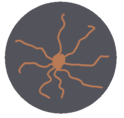
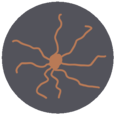
rotating and fix bugs

diff --git a/game.py b/game.py
@@ -1,3 +1,5 @@
+import time
+
 from classes import *
 import sys
 import random
@@ -5,7 +7,8 @@ import random
 
 WIDTH = 1920
 HEIGHT = 1080
-MUSIC_VOLUME = 0.1
+MUSIC_VOLUME = 0
+
 
 pygame.init()
 pygame.mixer.init()
@@ -128,30 +131,30 @@ def game():
     #создаём группу спрайтов
     allSpites = pygame.sprite.Group()
 
-    #создаём сетку размером 125 на 120 для размещения жил
-    setka = [0] * 8
-    for i in range(8):
-        setka[i] = [0] * 15
+    #создаём сетку размером 115 на 115 для размещения жил
+    setka_zhil = [0] * 9
+    for i in range(9):
+        setka_zhil[i] = [0] * 16
 
     #создаём сетку размером 10 на 10 для резмещения построек
-    setkap = [0] * 192
-    for i in range(192):
-        setkap[i] = [0] * 109
+    setkap = [0] * (192 * 2)
+    for i in range(192 * 2):
+        setkap[i] = [0] * (109 * 2)
 
     # размещение жил по сетке
     for i in range(0, 3):
         numbers = 0
         while True:
-            num1 = random.randint(1, 7)
-            num2 = random.randint(0, 14)
-            if setka[num1][num2] == 0:
-                zhila = Zhila(i + 1, (num2 * 120, num1 * 125))
-                setka[num1][num2] = zhila.get_id()
+            num1 = random.randint(1, 8)
+            num2 = random.randint(0, 15)
+            if setka_zhil[num1][num2] == 0:
+                zhila = Zhila(i + 1, (num2 * 115, num1 * 115))
+                setka_zhil[num1][num2] = zhila.get_id()
                 numbers += 1
                 allSpites.add(zhila)
-                for q in range(0, 120, 10):
-                    for g in range(0, 130, 10):
-                        setkap[(num2 * 125 + g) // 10][(num1 * 120 + q) // 10] = zhila.get_id()
+                for q in range(0, 115, 5):
+                    for g in range(0, 115, 5):
+                        setkap[(num2 * 115 + g) // 5][(num1 * 115 + q) // 5] = zhila.get_id()
             if numbers == 3:
                 break
 
@@ -165,19 +168,32 @@ def game():
         ikonka_rescurces = Ikonka_rescurces((WIDTH / 2 - 350 + i * 50, 70), 10, i + 20)
         ikonki.add(ikonka_rescurces)
     for i in range(5):
-        ikonka_postroek = Postroika((WIDTH / 2 - 200 + i * 100, HEIGHT - 70), 1, 10 + i)
+        ikonka_postroek = Postroika((WIDTH / 2 - 200 + i * 100, HEIGHT - 70), 1, 10 + i, 0)
         ikonki.add(ikonka_postroek)
         postroiki.add(ikonka_postroek)
     ikonka_name = Button(names_rescurces[0], (WIDTH / 2 - 630, 70))
 
     hud_up = Button(hud_up_img, (WIDTH / 2, HEIGHT / 2))
     hud_down = Button(hud_down_img, (WIDTH / 2, HEIGHT / 2))
+    group_setka = pygame.sprite.Group()
+    group_postroek = pygame.sprite.Group()
     # добовляем в группы спрайтов спрайты
     allSpites.add(hud_up, hud_down, ikonka_count_resources_001, ikonka_count_resources_010, ikonka_count_resources_100, ikonka_name)
     # создаём переменнаю для проверки привязанна ли расположение постройки к расположению мышки
     captured = False
+    for i in range(192 * 2):
+        for n in range(108 * 2):
+            group_setka.add(Block((i * 5, n * 5), setkap[i][n]))
+    timer = time.time()
     while True:
         screen.blit(fon_game_img, fon_game_img.get_rect())
+        if time.time() - timer > 5:
+            for i in group_setka:
+                i.kill()
+            for i in range(192 * 2):
+                for n in range(108 * 2):
+                    group_setka.add(Block((i * 5, n * 5), setkap[i][n]))
+            timer = time.time()
         #отображаем кол-во ресурсов для предмета на который мы навелись
         mouse_pos = pygame.mouse.get_pos()
         for i in ikonki:
@@ -188,46 +204,85 @@ def game():
                 ikonka_count_resources_100.set_img(numbers_image[i.update(1) // 100])
         #проверяем нажата ли какая нибудь кнопка
         for event in pygame.event.get():
+            if event.type == pygame.MOUSEBUTTONDOWN and pygame.mouse.get_pressed()[2] and captured:
+                selected_building.rotare()
+            if event.type == pygame.MOUSEBUTTONDOWN and pygame.mouse.get_pressed()[1]:
+                for i in group_postroek:
+                    if pygame.Rect.collidepoint(i.rect, mouse_pos):
+                        pos, size = i.update(4)
+                        new_id = i.update(5)
+
+                        # текущую ячеку помечаем что там чисто
+                        setkap[pos[0] // 5][pos[1] // 5] = 0
+                        for q in range(0, size[1], 5):
+                            for g in range(0, size[0], 5):
+                                # каждую явейку затрагиваемая обектом помечаем как свободную
+                                setkap[(pos[0] // 5 * 5 + g) // 5][(pos[1] // 5 * 5 + q) // 5] = new_id
+
+                        i.kill()
             #если пользователь нажал клавишу мышки
-            if event.type == pygame.MOUSEBUTTONDOWN:
+            if event.type == pygame.MOUSEBUTTONDOWN and pygame.mouse.get_pressed()[0]:
                 #создаём спрайт постройки исли пользователь выбрал одну из них
                 for i in postroiki:
                     if pygame.Rect.collidepoint(i.rect, mouse_pos):
-                        selected_building = Postroika(mouse_pos, 1, i.update(2))
+                        selected_building = Postroika(mouse_pos, 1, i.update(2), setkap[mouse_pos[0] // 5][mouse_pos[1] // 5])
                         captured = True
                         allSpites.add(selected_building)
+                        group_postroek.add(selected_building)
 
             #если клавиша мышки отпущена после нажатия и до этого была выбрана постройка для размещения
             #пытаемся разместить обекто по сетке
-            if event.type == pygame.MOUSEBUTTONUP and captured:
+            if event.type == pygame.MOUSEBUTTONUP and pygame.mouse.get_pressed()[0] == False and captured:
                 captured = False
                 #вычисляем размер поcтройки
-                sizey = (selected_building.rect.bottomleft[1] - selected_building.rect.y)
-                sizex = (selected_building.rect.topright[0] - selected_building.rect.x)
+                sizex, sizey = selected_building.get_size()
                 #проверяем ечейку которая соответстует укрсору мышки свободна или нет
-                if setkap[mouse_pos[0] // 10][mouse_pos[1] // 10] == 0:
-                    is_place_occupied = False
-                    for q in range(0, sizey, 10):
-                        for g in range(0, sizex, 10):
-                            numm1 = (mouse_pos[1] // 10 * 10 + q) // 10
-                            numm2 = (mouse_pos[0] // 10 * 10 + g) // 10
-                            if numm1 > 108 or numm2 > 191 or setkap[numm2][numm1] != 0:
+                # если ячека занята то is_place_occupied становится true
+                is_place_occupied = False
+                print(selected_building.get_id())
+                print(setkap[mouse_pos[0] // 5][mouse_pos[1] // 5])
+                if selected_building.get_id() == 11 and 0 < setkap[mouse_pos[0] // 5][mouse_pos[1] // 5] < 4:
+                    #создаём два цикла для проверки размера постройки в той ячейке которую она займёт
+                    for q in range(0, sizey, 5):
+                        for g in range(0, sizex, 5):
+                            #получаем кординаты ячейки постройки
+                            numm1 = (mouse_pos[1] // 5 * 5 + q) // 5
+                            numm2 = (mouse_pos[0] // 5 * 5 + g) // 5
+                            #проверяем пуста ли эта ячейка и если занята то selected_building.kill()
+                            if numm1 > 108 * 2 or numm2 > 191 * 2 or setkap[numm2][numm1] > 3 or setkap[numm2][numm1] < 1:
                                 is_place_occupied = True
                     if is_place_occupied:
                         selected_building.kill()
                     else:
                         #текущую ячеку помечаем что что-то там есть
-                        setkap[mouse_pos[0] // 10][mouse_pos[1] // 10] = 1
+                        setkap[mouse_pos[0] // 5][mouse_pos[1] // 5] = selected_building.get_id()
                         #изменяем позицию размещяемого обекта в соответстии с сеткой
-                        selected_building.rect.x = mouse_pos[0] // 10 * 10
-                        selected_building.rect.y = mouse_pos[1] // 10 * 10
-                        for q in range(0, sizey, 10):
-                            for g in range(0, sizex, 10):
-                                #когда выходим за граници экрана   IndexError: list index out of range
+                        selected_building.rect.x = mouse_pos[0] // 5 * 5
+                        selected_building.rect.y = mouse_pos[1] // 5 * 5
+                        for q in range(0, sizey, 5):
+                            for g in range(0, sizex, 5):
                                 #каждую явейку затрагиваемая обектом помечаем что как занята
-                                setkap[(mouse_pos[0] // 10 * 10 + g) // 10][(mouse_pos[1] // 10 * 10 + q) // 10] = 1
+                                setkap[(mouse_pos[0] // 5 * 5 + g) // 5][(mouse_pos[1] // 5 * 5 + q) // 5] = selected_building.get_id()
 
-
+                elif setkap[mouse_pos[0] // 5][mouse_pos[1] // 5] == 0 and selected_building.get_id() != 11:
+                    for q in range(0, sizey, 5):
+                        for g in range(0, sizex, 5):
+                            numm1 = (mouse_pos[1] // 5 * 5 + q) // 5
+                            numm2 = (mouse_pos[0] // 5 * 5 + g) // 5
+                            if numm1 > 108 * 2 or numm2 > 191 * 2 or setkap[numm2][numm1] != 0:
+                                is_place_occupied = True
+                    if is_place_occupied:
+                        selected_building.kill()
+                    else:
+                        #текущую ячеку помечаем что что-то там есть
+                        setkap[mouse_pos[0] // 5][mouse_pos[1] // 5] = selected_building.get_id()
+                        #изменяем позицию размещяемого обекта в соответстии с сеткой
+                        selected_building.rect.x = mouse_pos[0] // 5 * 5
+                        selected_building.rect.y = mouse_pos[1] // 5 * 5
+                        for q in range(0, sizey, 5):
+                            for g in range(0, sizex, 5):
+                                #каждую явейку затрагиваемая обектом помечаем что как занята
+                                setkap[(mouse_pos[0] // 5 * 5 + g) // 5][(mouse_pos[1] // 5 * 5 + q) // 5] = selected_building.get_id()
                 else:
                     selected_building.kill()
 
@@ -243,6 +298,7 @@ def game():
 
         # формируем изображение игры
         allSpites.draw(screen)
+        group_setka.draw(screen)
         ikonki.draw(screen)
         pygame.display.flip()
 

diff --git a/classes.py b/classes.py
@@ -62,7 +62,7 @@ id 13 = развзлетлитель
 id 14 = соеденитель
 """
 class Postroika(pygame.sprite.Sprite):
-    def __init__(self, pos, count, id):
+    def __init__(self, pos, count, id, na_zhile):
         pygame.sprite.Sprite.__init__(self)
         self.image = spisok_postroiki_image[id - 10]
         self.rect = self.image.get_rect()
@@ -70,9 +70,15 @@ class Postroika(pygame.sprite.Sprite):
         self.count = count
         self.text_image = names_rescurces[id + 5]
         self.id = id
+        self.na_zhile = na_zhile
 
     def get_count(self):
         return self.count
+
+    def get_size(self):
+        sizey = (self.rect.bottomleft[1] - self.rect.y)
+        sizex = (self.rect.topright[0] - self.rect.x)
+        return (sizex, sizey)
 
     def update(self, choice):
         if choice == 1:
@@ -81,9 +87,19 @@ class Postroika(pygame.sprite.Sprite):
             return self.id
         if choice == 3:
             return self.text_image
+        if choice == 4:
+            sizex, sizey = self.get_size()
+            return ((self.rect.x, self.rect.y), (sizex, sizey))
+        # не верно na_zhile в game.py
+        if choice == 5:
+            return self.na_zhile
 
     def get_id(self):
         return self.id
+
+    def rotare(self):
+        self.image = pygame.transform.rotate(self.image, 90)
+        self.rect = self.image.get_rect()
 
 class Ikonka_rescurces(pygame.sprite.Sprite):
     def __init__(self, pos, count, id):
@@ -108,3 +124,17 @@ class Ikonka_rescurces(pygame.sprite.Sprite):
 
     def get_id(self):
         return self.id
+
+class Block(pygame.sprite.Sprite):
+    def __init__(self, pos, id):
+        pygame.sprite.Sprite.__init__(self)
+        if id == 0:
+            self.image = spisok_windows_image[0]
+        elif 1 <= id <= 3:
+            self.image = spisok_windows_image[1]
+        elif id == 11:
+            self.image = spisok_windows_image[2]
+        else:
+            self.image = spisok_windows_image[3]
+        self.rect = self.image.get_rect()
+        self.rect.center = pos

diff --git a/resources.py b/resources.py
@@ -86,6 +86,17 @@ ikonka_text_postroyka_konstruktor_image = pygame.image.load(os.path.join(main_fo
 ikonka_text_postroyka_yashik_image = pygame.image.load(os.path.join(main_folder, "images/names/yashik.png"))
 img_no_stroit = pygame.image.load(os.path.join(main_folder, "images/ne_stroit.png"))
 
+img_blue_window = pygame.image.load(os.path.join(main_folder, "images/for_setka/blue_window.png"))
+img_green_window = pygame.image.load(os.path.join(main_folder, "images/for_setka/green_window.png"))
+img_purple_window = pygame.image.load(os.path.join(main_folder, "images/for_setka/purple_window.png"))
+img_red_window = pygame.image.load(os.path.join(main_folder, "images/for_setka/red_window.png"))
+
+#зелёный пустота
+#фиолетовый жилы
+#синий бур
+#красный все остальные постройки
+spisok_windows_image = [img_green_window, img_purple_window, img_blue_window, img_red_window]
+
 spisok_zhil_image = [zhila_iron_img, zhila_isvestnyak_img, zhila_med_img]
 
 spisok_postroiki_image = [ikonka_asembler_image, ikonka_bur_image, ikonka_constructor_image, ikonka_razvetlitel_image, ikonka_soedenitel_image]
